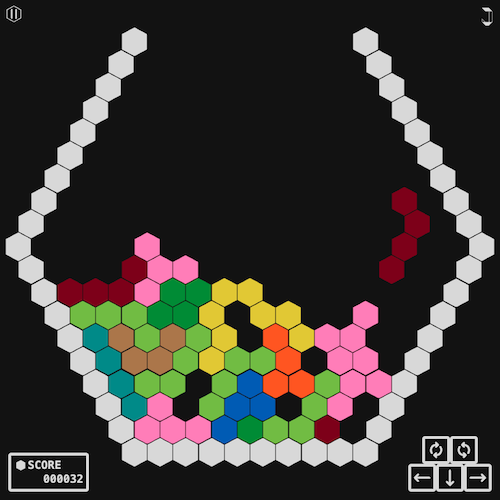
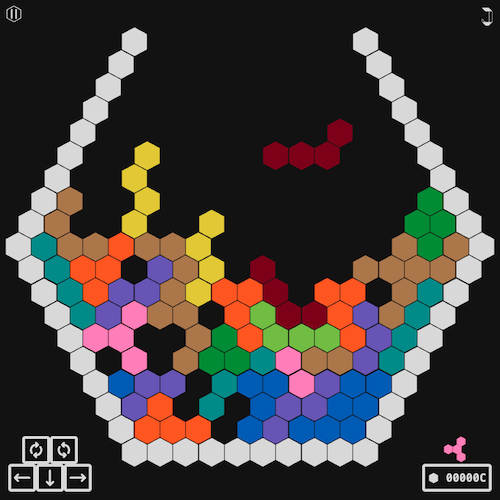
hextris flash and next

diff --git a/hextris/script.js b/hextris/script.js
@@ -21,6 +21,7 @@
 				background: document.querySelector("#game-background"),
 				backgroundSpikes: document.querySelector("#game-background-spikes"),
 				container: document.querySelector("#game-container"),
+				next: document.querySelector("#game-next"),
 				score: document.querySelector("#game-score-value"),
 				controls: {
 					"rotate-cw": document.querySelector("#game-controls-rotate-cw"),
@@ -143,6 +144,10 @@
 			},
 			score: 0,
 			downDirection: "downright",
+			nextPiece: {
+				type: null,
+				hexes: []
+			},
 			currentPiece: {
 				type: null,
 				stopped: false,
@@ -181,6 +186,7 @@
 					STATE.currentPiece.x = 0
 					STATE.currentPiece.y = 0
 					STATE.line = null
+					generatePiece(true)
 
 				// clear container
 					ELEMENTS.game.container.innerHTML = ""
@@ -375,7 +381,8 @@
 
 				// generate piece?
 					else if (!STATE.currentPiece.type) {
-						generatePiece()
+						// next
+							generatePiece()
 
 						// collisions?
 							if (getCollisions(getActualHexes(STATE.currentPiece.hexes, STATE.currentPiece.x, STATE.currentPiece.y)).length) {
@@ -410,9 +417,19 @@
 						descendPiece()
 					}
 
+				// currentPiece
+					const currentPieceHexes = getActualHexes(STATE.currentPiece.hexes, STATE.currentPiece.x, STATE.currentPiece.y)
+
+				// flash
+					if (STATE.currentPiece.stopped) {
+						for (const h in currentPieceHexes) {
+							currentPieceHexes[h].flash = true
+						}
+					}
+
 				// hexes to render
 					const hexesToRender = copyObject(STATE.hexes)
-						hexesToRender.push(...getActualHexes(STATE.currentPiece.hexes, STATE.currentPiece.x, STATE.currentPiece.y))
+						hexesToRender.push(...currentPieceHexes)
 
 				// render everything
 					displayHexagons(hexesToRender)
@@ -421,20 +438,29 @@
 		}
 
 	/* generatePiece */
-		function generatePiece() {
+		function generatePiece(startup) {
 			try {
-				// random piece type
+				// next --> current
+					if (!startup) {
+						STATE.currentPiece.type = STATE.nextPiece.type
+						STATE.currentPiece.hexes = copyObject(STATE.nextPiece.hexes)
+						STATE.currentPiece.stopped = false
+						STATE.currentPiece.x = CONSTANTS.startingX
+						STATE.currentPiece.y = CONSTANTS.startingY
+					}
+
+				// next --> random piece type
 					const pieceType = chooseRandom(Object.keys(CONSTANTS.pieces))
 
 				// set state
-					STATE.currentPiece.type = pieceType
-					STATE.currentPiece.hexes = copyObject(CONSTANTS.pieces[pieceType])
-					STATE.currentPiece.hexes.forEach(hex => {
+					STATE.nextPiece.type = pieceType
+					STATE.nextPiece.hexes = copyObject(CONSTANTS.pieces[pieceType])
+					STATE.nextPiece.hexes.forEach(hex => {
 						hex.type = pieceType
 					})
-					STATE.currentPiece.stopped = false
-					STATE.currentPiece.x = CONSTANTS.startingX
-					STATE.currentPiece.y = CONSTANTS.startingY
+
+				// display next
+					displayNextPiece()
 			} catch (error) {console.log(error)}
 		}
 
@@ -603,6 +629,9 @@
 
 				// not possible to go down at all
 					STATE.currentPiece.stopped = true
+					for (const h in STATE.currentPiece.hexes) {
+						STATE.currentPiece.hexes[h].flash = true
+					}
 					return
 			} catch (error) {console.log(error)}
 		}
@@ -616,7 +645,6 @@
 				// loop through
 					for (const h in relativeHexes) {
 						const relativeHex = relativeHexes[h]
-
 						actualHexes.push({
 							x:    relativeHex.x + x,
 							y:    relativeHex.y + y,
@@ -875,7 +903,40 @@
 								hexElement.innerHTML = CONSTANTS.svg.hexagon
 								hexElement.style.left = `calc(${50 + (x / gameDiameter * 100)}%)`
 								hexElement.style.top = `calc(${y / gameDiameter * 100}%)`
+								if (hex.flash) {
+									hexElement.setAttribute("flash", true)
+								}
 							ELEMENTS.game.container.appendChild(hexElement)
+
+							if (CONSTANTS.showCoordinates) {
+								hexElement.innerHTML += `<span>${hex.x},${hex.y}</span>`
+							}
+					}
+			} catch (error) {console.log(error)}
+		}
+
+	/* displayNextPiece */
+		function displayNextPiece() {
+			try {
+				// clear
+					ELEMENTS.game.next.innerHTML = ""
+
+				// hexagons
+					// loop through hexes
+					for (const h in STATE.nextPiece.hexes) {
+						// coordinates
+							const hex = STATE.nextPiece.hexes[h]
+							const x = hex.x + (hex.y / 2)
+							const y = hex.y
+							const nextDiameter = 8
+
+						// element
+							const hexElement = document.createElement("div")
+								hexElement.className = `game-next-hex hex-${hex.type}`
+								hexElement.innerHTML = CONSTANTS.svg.hexagon
+								hexElement.style.left = `calc(${50 + (x / nextDiameter * 100)}%)`
+								hexElement.style.top = `calc(${y / nextDiameter * 100}%)`
+							ELEMENTS.game.next.appendChild(hexElement)
 
 							if (CONSTANTS.showCoordinates) {
 								hexElement.innerHTML += `<span>${hex.x},${hex.y}</span>`

diff --git a/hextris/stylesheet.css b/hextris/stylesheet.css
@@ -15,6 +15,7 @@
 		--transition-time: 0.5s;
 		--controls-key-size: 50px;
 		--game-radius: 9;
+		--next-radius: 4;
 		--hexagon-ratio: 0.886025;
 
 		--color-rhombus: #029632;         /* green */
@@ -276,6 +277,10 @@
 					color: var(--color-cup);
 				}
 
+				.game-hex[flash] {
+					color: var(--light-blue) !important;
+				}
+
 			.game-hex span { /* ??? */
 				font-family: var(--font-family);
 				font-size: calc(var(--font-size) / 2);
@@ -288,18 +293,43 @@
 				transform: translateX(-50%) translateY(-50%);
 			}
 
+		#game-next {
+			position: absolute;
+			bottom: var(--gap-size);
+			right: calc(var(--gap-size) * 3);
+			background: transparent;
+			width: calc(var(--controls-key-size) * 2.5);
+			height: calc(var(--controls-key-size) * 2.5 * var(--hexagon-ratio));
+			transition: var(--transition-time);
+			pointer-events: none;
+		}
+
+			#game:not([play]) #game-next {
+				opacity: 0;
+			}
+
+			.game-next-hex {
+				position: absolute;
+				transform: translateX(-50%) translateY(calc(100% * var(--hexagon-ratio)));
+				width: calc(100% / ((var(--next-radius) - 1) * 2 + 1));
+				height: calc(100% / var(--hexagon-ratio) / ((var(--next-radius) - 1) * 2 + 1));
+			}
+
 		#game-score {
 			position: absolute;
 			bottom: calc(var(--gap-size) * 3);
-			left: calc(var(--gap-size) * 3);
-			padding: var(--gap-size);
+			right: calc(var(--gap-size) * 3);
+			padding: calc(var(--gap-size) * 1.5) var(--gap-size) calc(var(--gap-size) * 1.5) calc(var(--gap-size) * 0.5);
 			border-radius: var(--border-radius);
 			border: var(--border-size) solid var(--light-gray);
 			width: calc(var(--controls-key-size) * 2.5);
 			height: calc(var(--controls-key-size) * 1);
+			box-sizing: border-box;
 		}
 
 			#game-score-header, #game-score-value {
+				vertical-align: top;
+				display: inline-block;
 				text-transform: uppercase;
 				font-family: var(--font-family);
 				font-weight: bold;
@@ -308,7 +338,7 @@
 			}
 
 			#game-score-header {
-				text-align: left;
+				float: left;
 			}
 
 				#game-score-header span, #game-score-header svg {
@@ -320,13 +350,13 @@
 
 			#game-score-value {
 				font-size: var(--font-size);
-				text-align: right;
+				float: right;
 			}
 
 		#game-controls {
 			position: absolute;
 			bottom: calc(var(--gap-size) * 3);
-			right: calc(var(--gap-size) * 3);
+			left: calc(var(--gap-size) * 3);
 			height: calc(var(--controls-key-size) * 2);
 			width: calc(var(--controls-key-size) * 3);
 			text-align: center;

diff --git a/hextris/index.html b/hextris/index.html
@@ -24,10 +24,11 @@
 			</div>
 			<div id="game-container">
 			</div>
+			<div id="game-next">
+			</div>
 			<div id="game-score">
 				<div id="game-score-header">
 					<svg viewBox="10 10 80 80"><path d="M 50 20 C 59 25 67 29 76 34 C 76 34 76 34 76 34 C 76 45 76 55 76 66 C 67 71 59 75 50 80 C 41 75 33 71 24 66 C 24 55 24 45 24 34 C 33 29 41 25 50 20 Z"></path></svg>
-					<span>score</span>
 				</div>
 				<div id="game-score-value">000000</div>
 			</div>
